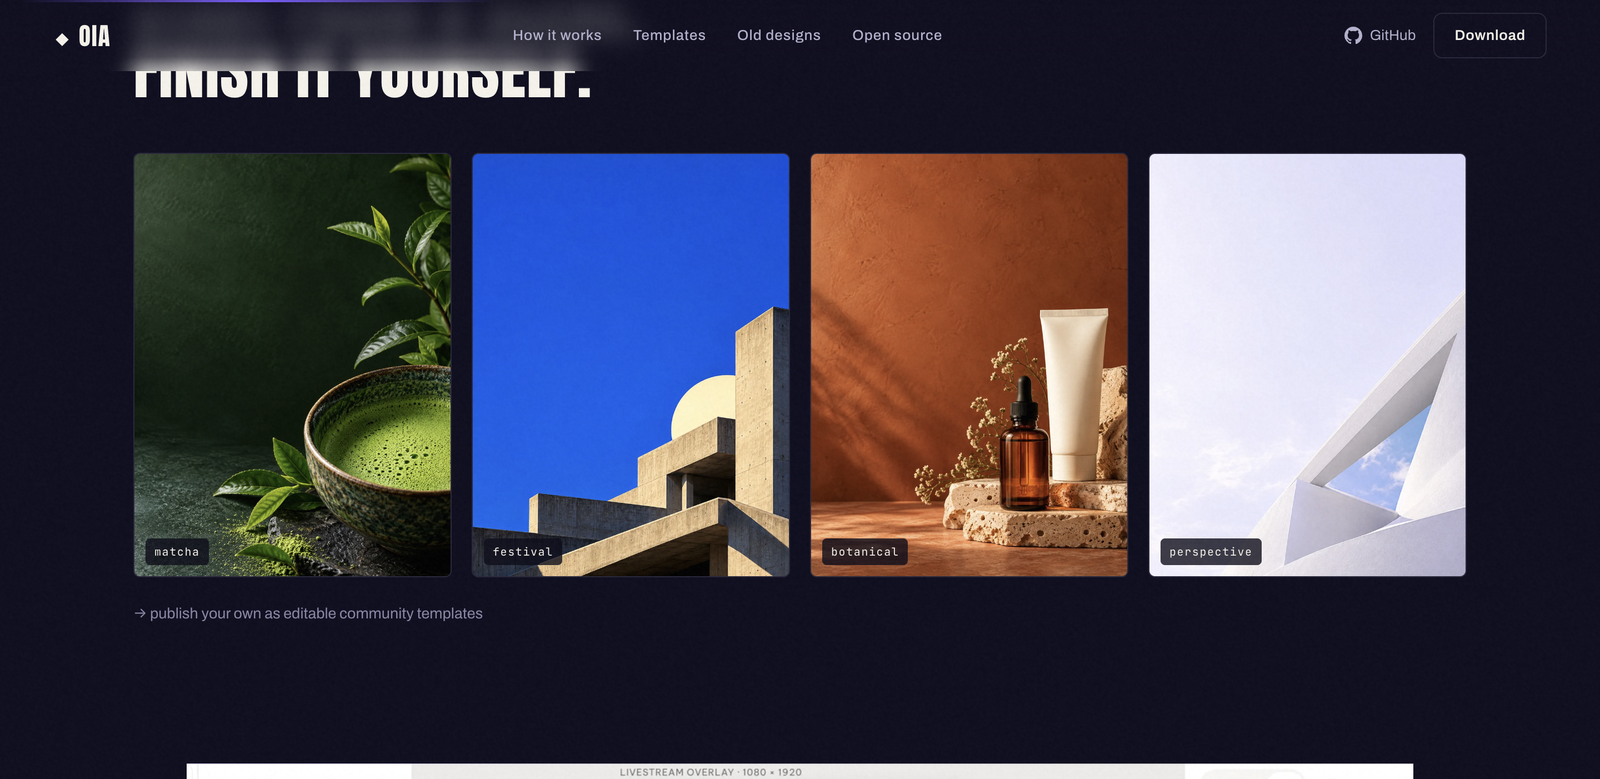
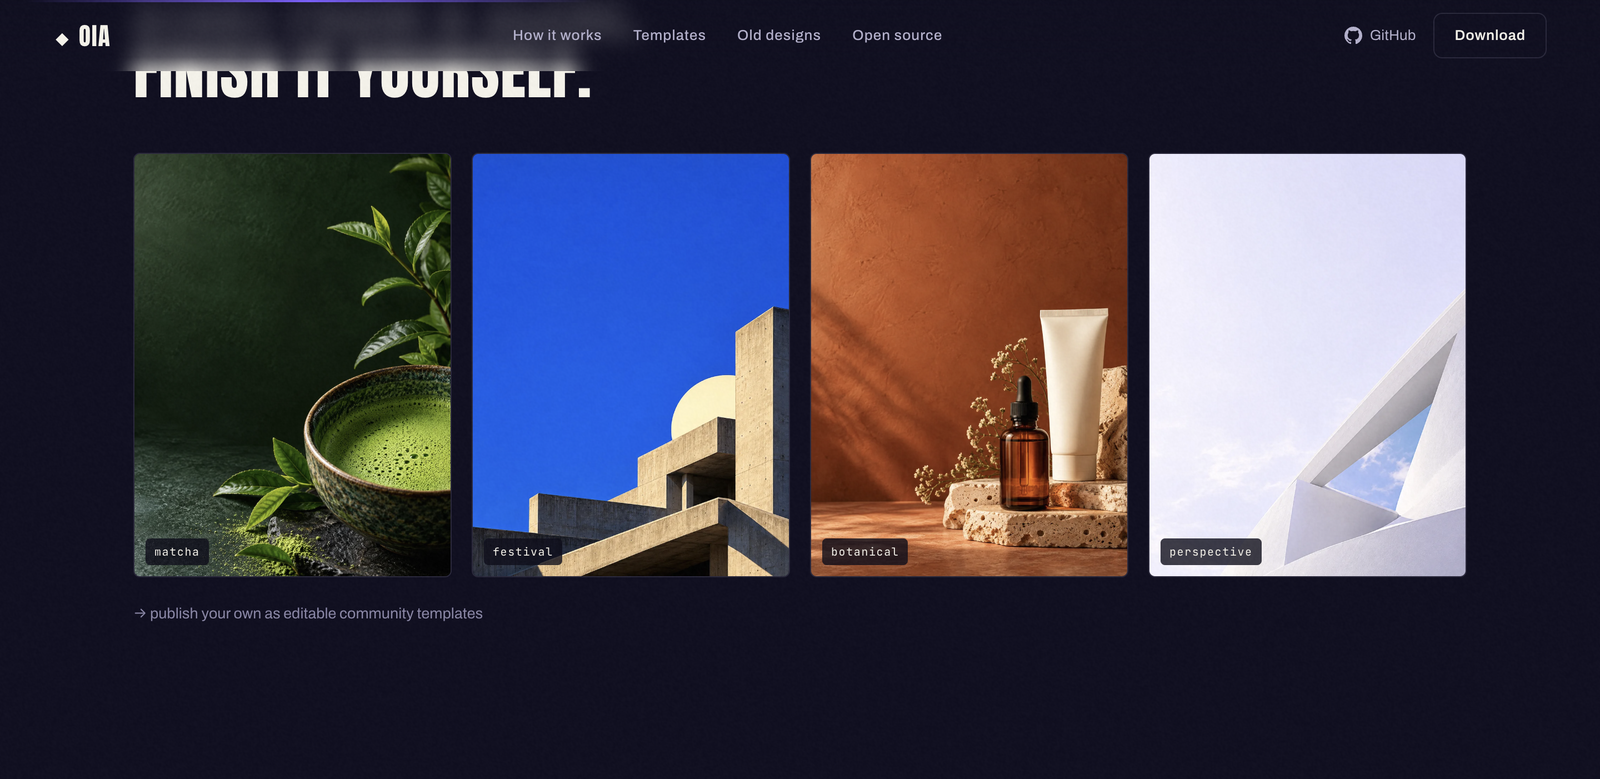
fix(landing): drop the livestream-overlay frame — it read as a wireframe
Owner review (2026-11-02): the overlay shot showed a mostly-empty
checkerboard canvas with safe-zone hatching and one floating price
card — honest, but it looks unfinished next to the real-generation
frames and dragged the templates section down.

Remove the frame entirely; the C3 story stays as text (ticker +
workflow step 04 "transparent png - overlays"). overlay.webp asset
deleted, site README note updated, qa-shots 3-gallery + 0-fullpage
re-shot (page is ~900px shorter).

Changed region(s): [[0.0938, 0.9551, 0.9062, 1.0]]

diff --git a/site/index.html b/site/index.html
@@ -150,10 +150,6 @@
       <figure class="gtile"><img loading="lazy" src="assets/perspective.webp" alt="Perspective study" width="300" height="400"><span class="tag">perspective</span></figure>
     </div>
     <p class="gallery-note">→ publish your own as editable community templates</p>
-    <div class="editor-frame">
-      <img loading="lazy" src="assets/overlay.webp" alt="Livestream overlay editor: flash-sale price card ($8.90 → $5.90) on a transparent 1080×1920 canvas, TikTok safe zones marked in red, livestream templates in the side panel" width="1600" height="1000">
-      <span class="cap mono">livestream overlays · 1080 × 1920 transparent · safe zones for TikTok &amp; Shopee Live</span>
-    </div>
   </div>
 </section>
 

diff --git a/site/README.md b/site/README.md
@@ -9,9 +9,10 @@ The page tracks the shipped product (`docs/designs/ui-v11-redesign.md`,
   `≈ 1 image` cost hint); telemetry chip = RunSteps (planning › painting › composing)
 - Workflow = 4 steps incl. outline review (C1) and preview-apply AI edits (A1)
 - `#bring` section = deconstruct (B1): old design → editable text layers
-- Templates section carries the livestream-overlay frame (C3, safe zones)
-- Editor/overlay/deconstruct frames are real screenshots from `apps/desktop`
-  (`pnpm --filter @oia/desktop shot`, downscaled to 1600w WebP)
+- Editor/deconstruct frames are real screenshots from `apps/desktop`
+  (`pnpm --filter @oia/desktop shot`, downscaled to 1600w WebP); the livestream
+  overlay frame was removed 2026-11-02 (owner: reads as wireframe — the C3 story
+  stays as text in the ticker + workflow step 04)
 
 ## Run locally
 ```bash
